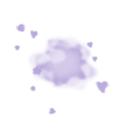
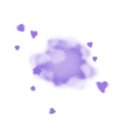
타이틀 효과 추가: 비눗방울, 반짝이, 파스텔 붓자국, 클릭 잉크 방울

diff --git a/title_effects.py b/title_effects.py
@@ -1,0 +1,177 @@
+"""타이틀 화면의 몽환적인 움직임: 비눗방울, 반짝이, 붓자국, 잉크 방울."""
+import math
+import random
+
+import game_framework
+from assets import image
+
+PASTELS = ('pink', 'peach', 'lemon', 'mint', 'sky', 'lavender')
+SCREEN_W, SCREEN_H = 1280, 720
+
+
+class Bubble:
+    """아래에서 위로 흔들리며 떠오르는 파스텔 비눗방울."""
+
+    def __init__(self, start_anywhere=False):
+        self.reset()
+        if start_anywhere:
+            self.y = random.uniform(0, SCREEN_H)
+
+    def reset(self):
+        self.image = image('title', f'bubble_{random.choice(PASTELS)}.png')
+        self.base_x = random.uniform(40, SCREEN_W - 40)
+        self.y = random.uniform(-80, -20)
+        self.size = random.uniform(22, 58)
+        self.speed = random.uniform(22, 48)
+        self.sway = random.uniform(10, 30)
+        self.phase = random.uniform(0, 2 * math.pi)
+        self.t = 0.0
+
+    @property
+    def x(self):
+        return self.base_x + math.sin(self.t * 0.9 + self.phase) * self.sway
+
+    def update(self):
+        dt = game_framework.frame_time
+        self.t += dt
+        self.y += self.speed * dt
+        if self.y > SCREEN_H + 60:
+            self.reset()
+
+    def draw(self):
+        # 위로 올라갈수록 옅어진다
+        fade = max(0.0, min(1.0, (SCREEN_H + 40 - self.y) / 260))
+        self.image.opacify((0.7 + 0.25 * math.sin(self.t * 2 + self.phase)) * fade)
+        wobble = 1 + 0.05 * math.sin(self.t * 3 + self.phase)
+        self.image.draw(self.x, self.y, self.size * wobble, self.size / wobble)
+        self.image.opacify(1)
+
+
+class Twinkle:
+    """하늘에서 커졌다 작아지며 반짝이는 별."""
+
+    def __init__(self, x=None, y=None, size=None, life=None, vx=0.0, vy=0.0):
+        self.image = image('title', 'sparkle.png')
+        self.burst = x is not None  # 클릭으로 튄 반짝이는 한 번만 빛나고 사라진다
+        self.respawn(x, y, size, life)
+        self.vx, self.vy = vx, vy
+        if not self.burst:
+            self.t = random.uniform(0, self.life)  # 처음부터 제각각 반짝이게
+
+    def respawn(self, x=None, y=None, size=None, life=None):
+        self.x = x if x is not None else random.uniform(30, SCREEN_W - 30)
+        self.y = y if y is not None else random.uniform(SCREEN_H * 0.45, SCREEN_H - 20)
+        self.size = size or random.uniform(14, 30)
+        self.life = life or random.uniform(1.6, 3.2)
+        self.t = 0.0
+
+    @property
+    def done(self):
+        return self.burst and self.t >= self.life
+
+    def update(self):
+        dt = game_framework.frame_time
+        self.t += dt
+        self.x += self.vx * dt
+        self.y += self.vy * dt
+        self.vx *= 1 - min(1.0, dt * 3)
+        self.vy *= 1 - min(1.0, dt * 3)
+        if self.t >= self.life and not self.burst:
+            self.respawn()
+
+    def draw(self):
+        k = math.sin(math.pi * min(1.0, self.t / self.life))
+        if k <= 0.02:
+            return
+        self.image.opacify(k)
+        s = self.size * (0.4 + 0.6 * k)
+        self.image.composite_draw(self.t * 0.8, '', self.x, self.y, s, s)
+        self.image.opacify(1)
+
+
+class BrushTrail:
+    """마우스가 지나간 자리에 파스텔 무지개 붓 점이 남았다가 사라진다."""
+    SPACING = 7
+    LIFE = 0.7
+    MAX_DOTS = 260
+
+    def __init__(self):
+        self.images = [image('common', f'brush_dot_{c}.png') for c in PASTELS]
+        self.dots = []  # [x, y, age, color_index]
+        self.last = None
+        self.hue = 0.0
+
+    def move(self, x, y):
+        if self.last is None:
+            self.last = (x, y)
+            return
+        lx, ly = self.last
+        dist = math.hypot(x - lx, y - ly)
+        steps = int(dist / self.SPACING)
+        for i in range(1, steps + 1):
+            t = i / steps
+            self.hue = (self.hue + 0.12) % len(self.images)
+            self.dots.append([lx + (x - lx) * t, ly + (y - ly) * t, 0.0, int(self.hue)])
+        if steps:
+            self.last = (x, y)
+        del self.dots[:-self.MAX_DOTS]
+
+    def update(self):
+        dt = game_framework.frame_time
+        for d in self.dots:
+            d[2] += dt
+        self.dots = [d for d in self.dots if d[2] < self.LIFE]
+
+    def draw(self):
+        for x, y, age, c in self.dots:
+            k = 1 - age / self.LIFE
+            img = self.images[c]
+            img.opacify(min(1.0, 0.3 + k))
+            s = 8 + 18 * k
+            img.draw(x, y, s, s)
+        for img in self.images:
+            img.opacify(1)
+
+
+class InkSplash:
+    """클릭한 곳에 톡 튀었다가 번지며 사라지는 잉크 방울."""
+    POP = 0.12
+    HOLD = 0.5
+    FADE = 1.2
+
+    def __init__(self, x, y):
+        self.image = image('common', f'ink_drop_{random.choice(PASTELS)}.png')
+        self.x, self.y = x, y
+        self.size = random.uniform(80, 120)
+        self.rot = random.uniform(0, 2 * math.pi)
+        self.t = 0.0
+
+    @property
+    def done(self):
+        return self.t >= self.POP + self.HOLD + self.FADE
+
+    def update(self):
+        self.t += game_framework.frame_time
+
+    def draw(self):
+        if self.t < self.POP:
+            k, alpha = 0.6 + 0.5 * self.t / self.POP, 1.0
+        else:
+            spread = (self.t - self.POP) / (self.HOLD + self.FADE)
+            k = 1.1 + 0.15 * spread
+            alpha = 1.0 if self.t < self.POP + self.HOLD else 1 - (self.t - self.POP - self.HOLD) / self.FADE
+        self.image.opacify(max(0.0, alpha) * 0.9)
+        s = self.size * k
+        self.image.composite_draw(self.rot, '', self.x, self.y, s, s)
+        self.image.opacify(1)
+
+
+def sparkle_burst(x, y, count=5):
+    """클릭 위치에서 사방으로 튀는 반짝이들."""
+    out = []
+    for _ in range(count):
+        a = random.uniform(0, 2 * math.pi)
+        speed = random.uniform(80, 180)
+        out.append(Twinkle(x, y, random.uniform(12, 22), random.uniform(0.5, 0.9),
+                           math.cos(a) * speed, math.sin(a) * speed))
+    return out

diff --git a/tools/gen_title_images.py b/tools/gen_title_images.py
@@ -516,7 +516,7 @@ def main():
     save(button('끝내기', PASTEL['sky'], 82, False), 'title', 'button_quit.png')
     save(button('끝내기', PASTEL['sky'], 82, True), 'title', 'button_quit_hover.png')
     for i, (name, c) in enumerate(PASTEL.items()):
-        vivid = tuple(max(0, int(v * 0.92)) for v in c)
+        vivid = tuple(max(0, int(255 - (255 - v) * 1.9)) for v in c)  # 배경에 묻히지 않게 진하게
         save(ink_drop(vivid, 90 + i), 'common', f'ink_drop_{name}.png')
         save(brush_dot(c, 110 + i), 'common', f'brush_dot_{name}.png')
         save(bubble(c, 130 + i), 'title', f'bubble_{name}.png')
